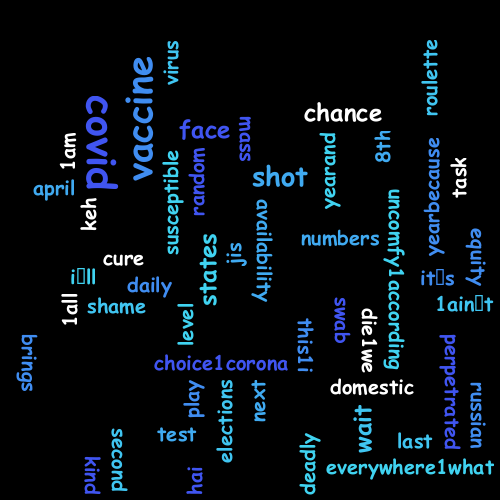
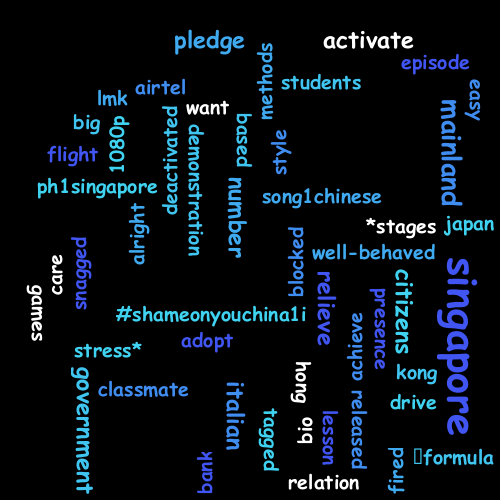
Added Wordcloud popup, wordcloud.css

Changed region(s): [[0.03, 0.06, 0.99, 0.99]]

diff --git a/src/main/webapp/wordcloud.css b/src/main/webapp/wordcloud.css
@@ -1,0 +1,44 @@
+/* The Modal (background) */
+.modal {
+    display: none; /* Hidden by default */
+    position: fixed; /* Stay in place */
+    z-index: 1; /* Sit on top */
+    padding-top: 100px; /* Location of the box */
+    left: 0;
+    top: 0;
+    width: 100%; /* Full width */
+    height: 100%; /* Full height */
+    overflow: auto; /* Enable scroll if needed */
+    background-color: rgb(0,0,0); /* Fallback color */
+    background-color: rgba(0,0,0,0.4); /* Black w/ opacity */
+}
+
+/* Modal Content */
+/* #fefefe white */
+.modal-content {
+    background-color: #000000;
+    margin: auto;
+    padding: 20px;
+    border: 1px solid #888;
+    width: 50%;
+}
+
+/* The Close Button */
+.close {
+    color: #aaaaaa;
+    float: right;
+    font-size: 28px;
+    font-weight: bold;
+}
+
+.close:hover,
+.close:focus {
+    color: #000;
+    text-decoration: none;
+    cursor: pointer;
+}
+
+.h1 {
+    color: navy;
+    margin-left: 50px;
+}

diff --git a/src/main/java/Charlie/Web_Crawler_Project/WordCloudServlet.java b/src/main/java/Charlie/Web_Crawler_Project/WordCloudServlet.java
@@ -3,20 +3,13 @@ package Charlie.Web_Crawler_Project;
 import javax.servlet.*;
 import javax.servlet.http.*;
 import javax.servlet.annotation.*;
+import javax.swing.*;
 import java.io.IOException;
 
 @WebServlet(name = "WordCloudServlet", value = "/wordcloud")
 public class WordCloudServlet extends HttpServlet {
     @Override
     protected void doGet(HttpServletRequest request, HttpServletResponse response) throws ServletException, IOException {
-        //init wordcloud object
-        WordCloud wordCloud = new WordCloud();
-
-        //create word cloud using tweets.txt
-        wordCloud.createWordCloud("tweets.txt");
-
-        getServletContext().getRequestDispatcher("/wordcloud.jsp").forward(request, response);
-
     }
 
     @Override
@@ -27,7 +20,7 @@ public class WordCloudServlet extends HttpServlet {
         //create word cloud using tweets.txt
         wordCloud.createWordCloud("tweets.txt");
 
-        getServletContext().getRequestDispatcher("/wordcloud.jsp").forward(request, response);
+        getServletContext().getRequestDispatcher("/twitter.jsp").forward(request, response);
 
     }
 }

diff --git a/src/main/java/Charlie/Web_Crawler_Project/WordCloud.java b/src/main/java/Charlie/Web_Crawler_Project/WordCloud.java
@@ -47,7 +47,7 @@ public class WordCloud {
         wordCloud.setColorPalette(new ColorPalette(new Color(0x4055F1), new Color(0x408DF1), new Color(0x40AAF1), new Color(0x40C5F1), new Color(0x40D3F1), new Color(0xFFFFFF)));
         wordCloud.setFontScalar(new SqrtFontScalar(10, 40));
         wordCloud.build(wordFrequencies);
-        wordCloud.writeToFile("C:\\Users\\Haikal Wahab\\Documents\\SIT\\Tri 2\\OOP\\WebCrawler\\src\\main\\webapp\\image\\wordcloud.png");
+        wordCloud.writeToFile("C:\\Users\\Akmal\\Web_Crawler_Project\\src\\main\\webapp\\image\\wordcloud.png");
         System.out.println("Printed wordcloud successfully");
     }
 

diff --git a/src/main/java/Charlie/Web_Crawler_Project/TwitterCrawlServlet.java b/src/main/java/Charlie/Web_Crawler_Project/TwitterCrawlServlet.java
@@ -57,6 +57,12 @@ public class TwitterCrawlServlet extends HttpServlet {
         //get tweets and write to txt file
         writeTweets.writeTxt(tweetsList, "tweets.txt");
 
-        getServletContext().getRequestDispatcher("/twitter.jsp").forward(request, response);
+//        //init wordcloud object
+//        WordCloud wordCloud = new WordCloud();
+//
+//        //create word cloud using tweets.txt
+//        wordCloud.createWordCloud("tweets.txt");
+
+        getServletContext().getRequestDispatcher("/wordcloud").include(request, response);
     }
 }
